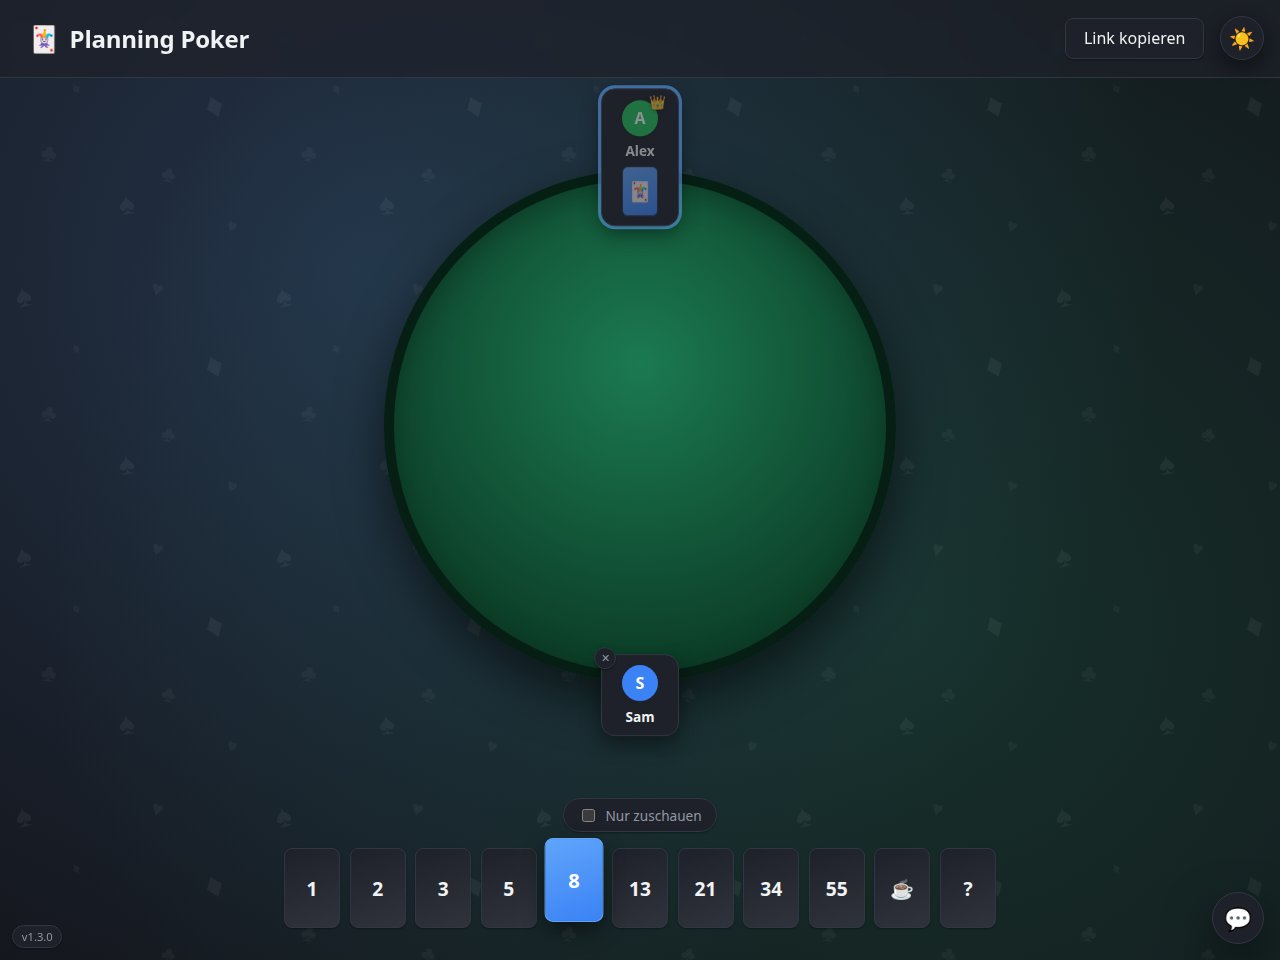
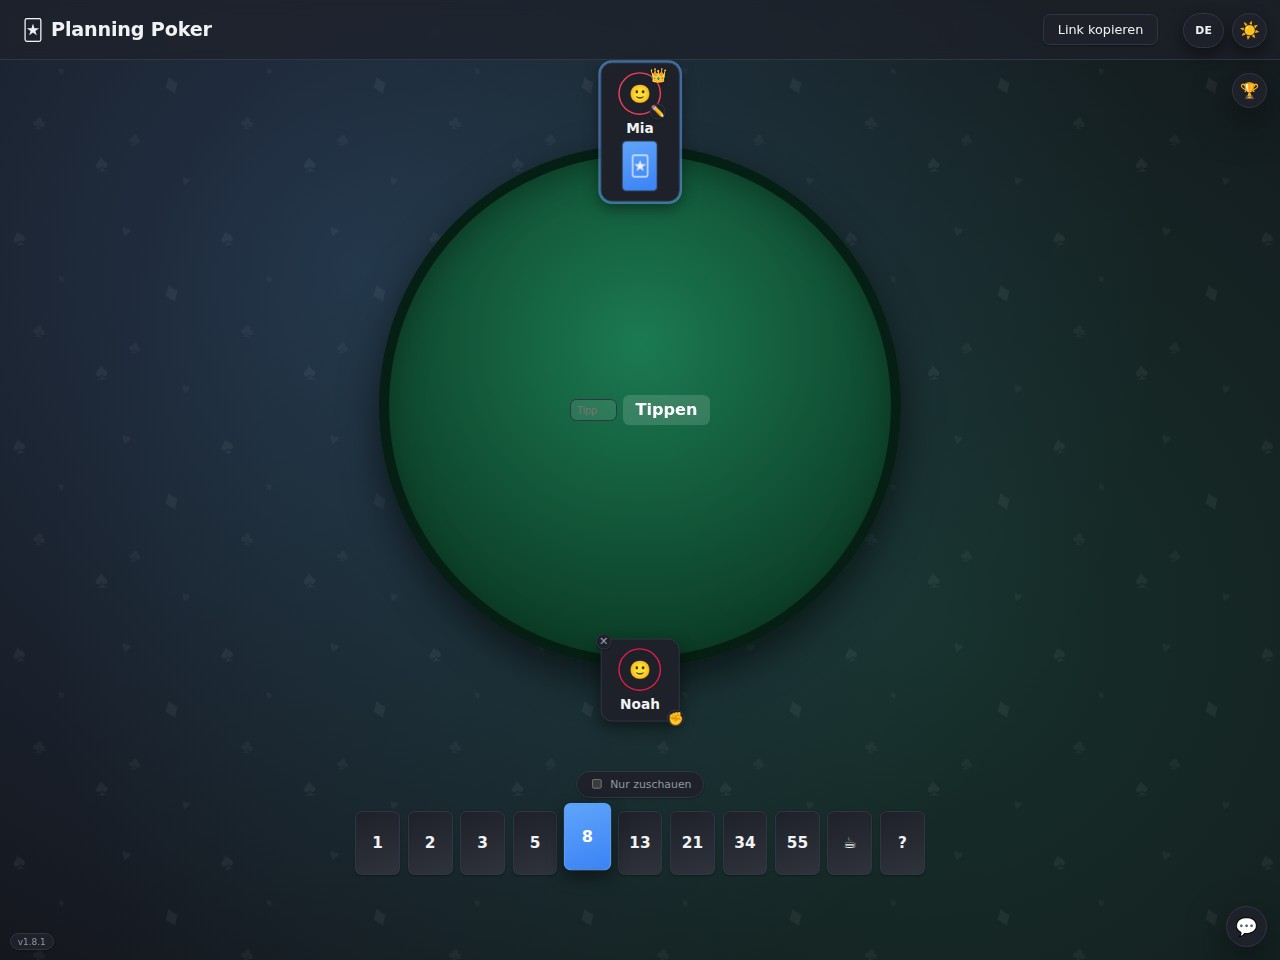
docs: refresh README screenshots and feature list for current app
Screenshots (landing/room-voting/room-revealed) predated i18n, avatars,
mini-games, and the trophy leaderboard, so they no longer matched the
running app. Recaptured them against the current build, added two new
screenshots showing the Rock-Paper-Scissors duel and the trophy
leaderboard, and updated the Features/Releases sections (language
toggle, avatars, mini-games, Helm/Kubernetes deploy) to match. Also
added a CLAUDE.md note to check README.md (and regenerate these
screenshots when the UI visibly changes) as part of every future
change.

Claude-Session: https://claude.ai/code/session_01KqBAihEmnYDou47t7YW7xX

diff --git a/CLAUDE.md b/CLAUDE.md
@@ -33,6 +33,12 @@ This only fires on pushes to `main` (see `.github/workflows/release.yml`); commi
 
 A PR must contain exactly one commit. Don't rely on GitHub's squash-merge button — instead rebase/squash the feature branch itself down to a single commit (`git rebase -i`) before merging, so the branch already has one commit when the PR is opened/updated. The PR title must match that commit's message and follow Conventional Commits (e.g. `fix: ...`, `feat: ...`, `feat!: ...`), since that's what `semantic-release` sees on `main`.
 
+## README maintenance
+
+Before finishing any change, check whether `README.md` still matches reality — new/changed features, scripts, prerequisites, or UI flows described in the "Try it locally" walkthrough. Update it in the same commit/PR if it's out of date; otherwise leave it alone.
+
+The screenshots under `docs/screenshots/` (`landing.jpg`, `room-voting.jpg`, `room-revealed.jpg`) are real app captures, not mockups — if a change alters what those screens visually show (layout, new UI elements, avatars, toolbar, etc.), regenerate them: run `bun run dev`, drive the app with Playwright against the local Chromium at `/opt/pw-browsers/chromium-*/chrome-linux/chrome` (`chromium-cli` if available), and overwrite the existing files in place (same filenames/crop) rather than adding new ones.
+
 ## Agent skills
 
 ### Issue tracker